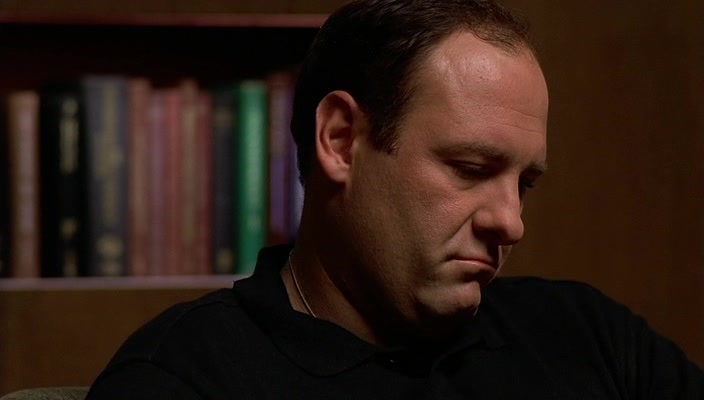
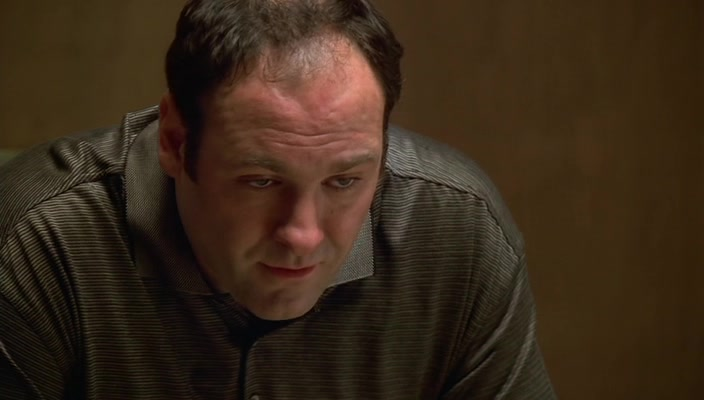
Patient chapter: review fixes (season slips, head close-up, next-chapter tab)
Claude-Session: https://claude.ai/code/session_01TSPv4wZ6gNUZHcoTh42EAF

diff --git a/patient/scenes.js b/patient/scenes.js
@@ -32,7 +32,7 @@ function buildScenes() {
   const r2 = rng(21);
   for (let i = 0; i < 22; i++) {
     const t = Wt('миллионы') + i * .055;
-    card({ x: A2[0] + (r2() - .5) * 1700, y: A2[1] + (r2() - .5) * 900, rot: (r2() - .5) * 1.2, w: 230, h: 120, tIn: t, dur: .28, enter: 'drop', dx: (r2() - .5) * 200, dy: -200, snd: i % 3 === 0,
+    card({ x: A2[0] + (r2() - .5) * 1700, y: A2[1] - 230 + r2() * 720, rot: (r2() - .5) * 1.2, w: 230, h: 120, tIn: t, dur: .28, enter: 'drop', dx: (r2() - .5) * 200, dy: -200, snd: i % 3 === 0,
       color: '#e2dccd', order: -50 + i, text: (g) => { g.fillStyle = INK; g.font = `700 26px ${MONO}`; g.textAlign = 'center'; g.fillText('HBO', 0, -12); g.font = `400 22px ${MONO}`; g.fillText('ВС · 21:00', 0, 26); } });
   }
   const seasonsStill = ['s1', 's2', 's3', 's4', 's5', 's6'], folders = [];
@@ -370,6 +370,7 @@ function buildScenes() {
   thread([[A12[0] - 640, A12[1] - 380], [A15[0], A15[1] - 235]], 121.9, 123.2, { width: 6, silent: true });
   camKey(121.4, A18[0] - 200, A18[1] + 200, .5, .01); camKey(123.8, 1700, 1900, .145, 0); camKey(125.0, 1700, 1900, .14, 0);
   sfx('rise', 120.4, { dur: 3.6 }); sfx('hit', 124.2);
+  typed('ДАЛЕЕ  ·  ГЛАВА 02  ·  СЫН', 123.4, .03);
 
   // foreground out-of-focus props for depth
   fgProp({ x: -900, y: 300, spr: 'ashtray', s: 1.1, p: 1.9 }); fgProp({ x: 3300, y: 120, spr: 'smoke', s: 1.6, p: 1.5, a: .8 });

diff --git a/patient/main.html b/patient/main.html
@@ -116,6 +116,12 @@ function post(t) {
     const v = out.createRadialGradient(W / 2, H / 2, H * (.55 - faint * .3), W / 2, H / 2, H * .95); v.addColorStop(0, 'rgba(0,0,0,0)'); v.addColorStop(1, `rgba(0,0,0,${faint * .85})`); out.fillStyle = v; out.fillRect(0, 0, W, H);
   }
   out.save(); out.globalCompositeOperation = 'soft-light'; out.fillStyle = 'rgba(90,140,130,.16)'; out.fillRect(0, 0, W, H); out.restore();
+  const nx = prog(t, 123.3, 123.9); if (nx > 0) {   // next-chapter tab on the final wide shot
+    const ty = { str: 'ДАЛЕЕ  ·  ГЛАВА 02  ·  СЫН', t0: 123.4, per: .03 };
+    out.save(); out.globalAlpha = eout(nx); out.translate(W / 2, H - 120 + (1 - eout(nx)) * 40);
+    out.fillStyle = '#c4a167'; out.shadowColor = 'rgba(0,0,0,.6)'; out.shadowBlur = 30; out.shadowOffsetY = 14; out.beginPath(); out.roundRect(-430, -48, 860, 96, 8); out.fill(); out.shadowColor = 'transparent';
+    drawTyped(out, ty, t, 0, 14, `800 40px ${MONO}`, INK, 'center'); out.restore();
+  }
   vignette(out, .82); applyGrain(out, t, .11);
   const fo = prog(t, T_END - .5, T_END); if (fo > 0) { out.fillStyle = `rgba(0,0,0,${fo})`; out.fillRect(0, 0, W, H); }
 }
